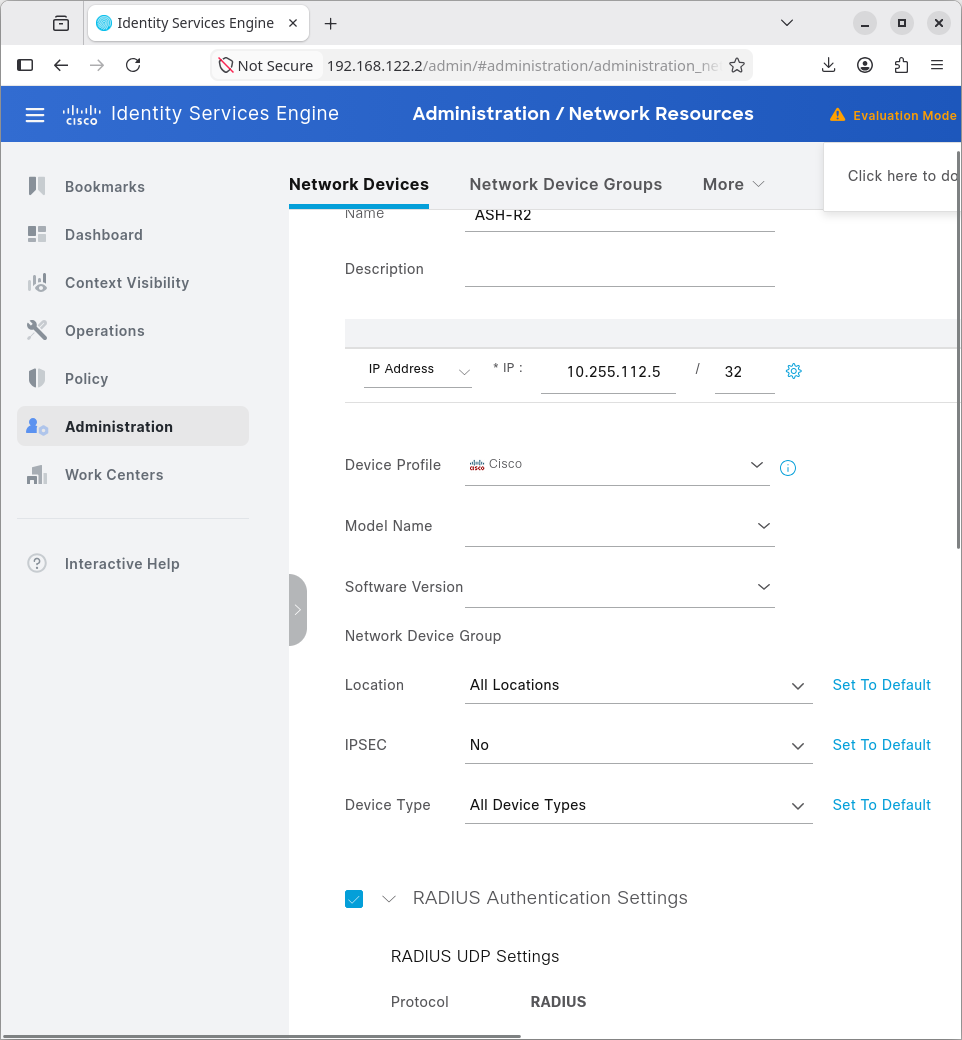
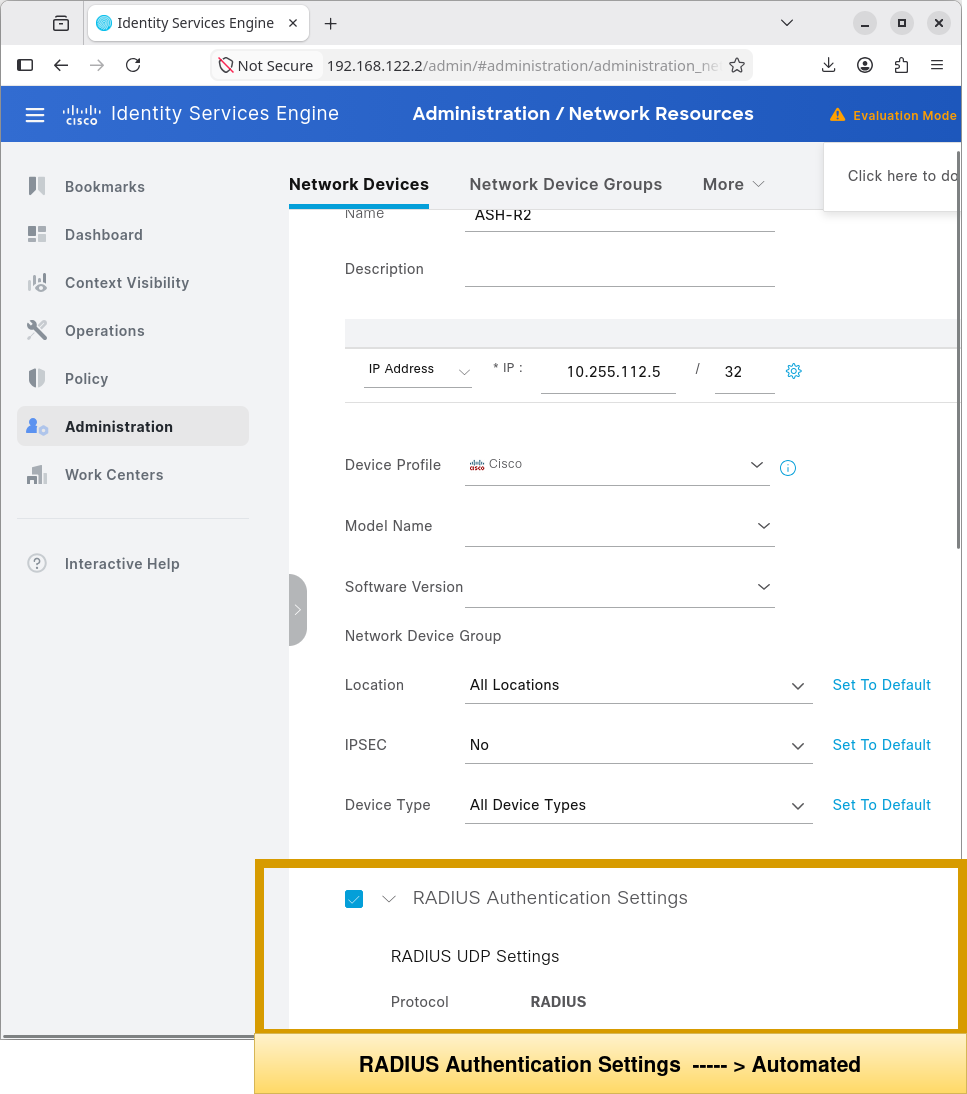
“README”

diff --git a/Automation/01-Python-NAD-Onboarding/README.md b/Automation/01-Python-NAD-Onboarding/README.md
@@ -138,10 +138,17 @@ Below is visual proof of the automation workflow in action.
 
 ![Automation](screenshots/ise-after-2.png)
 
+**RADIUS Authentication**
+
 ![Automation](screenshots/ise-radius.png)
 
 ---
 
-## Future Enhancements
-*   **Day 2 Configuration Push:** Integrate `Netmiko` to SSH into the newly created devices and push the base configuration (VLANs, AAA, Syslog, SNMP) immediately after Nautobot provisioning.
-*   **Webhook Integration:** Trigger this script automatically via a ServiceNow API webhook when a new hardware ticket is approved.
+---
+
+### What's Next?
+
+With Day-1 Zero-Touch Provisioning fully automated and validated, the next step is to ensure ongoing configuration compliance and detect unauthorized changes.
+
+Continue to the next module to explore Configuration Drift Auditing:
+- **[02 — Day 2 Configuration Drift Auditor & Alerting](../02-Python-Config-Drift-Auditor/)** – Netmiko-based config comparison and HTML compliance reports.
